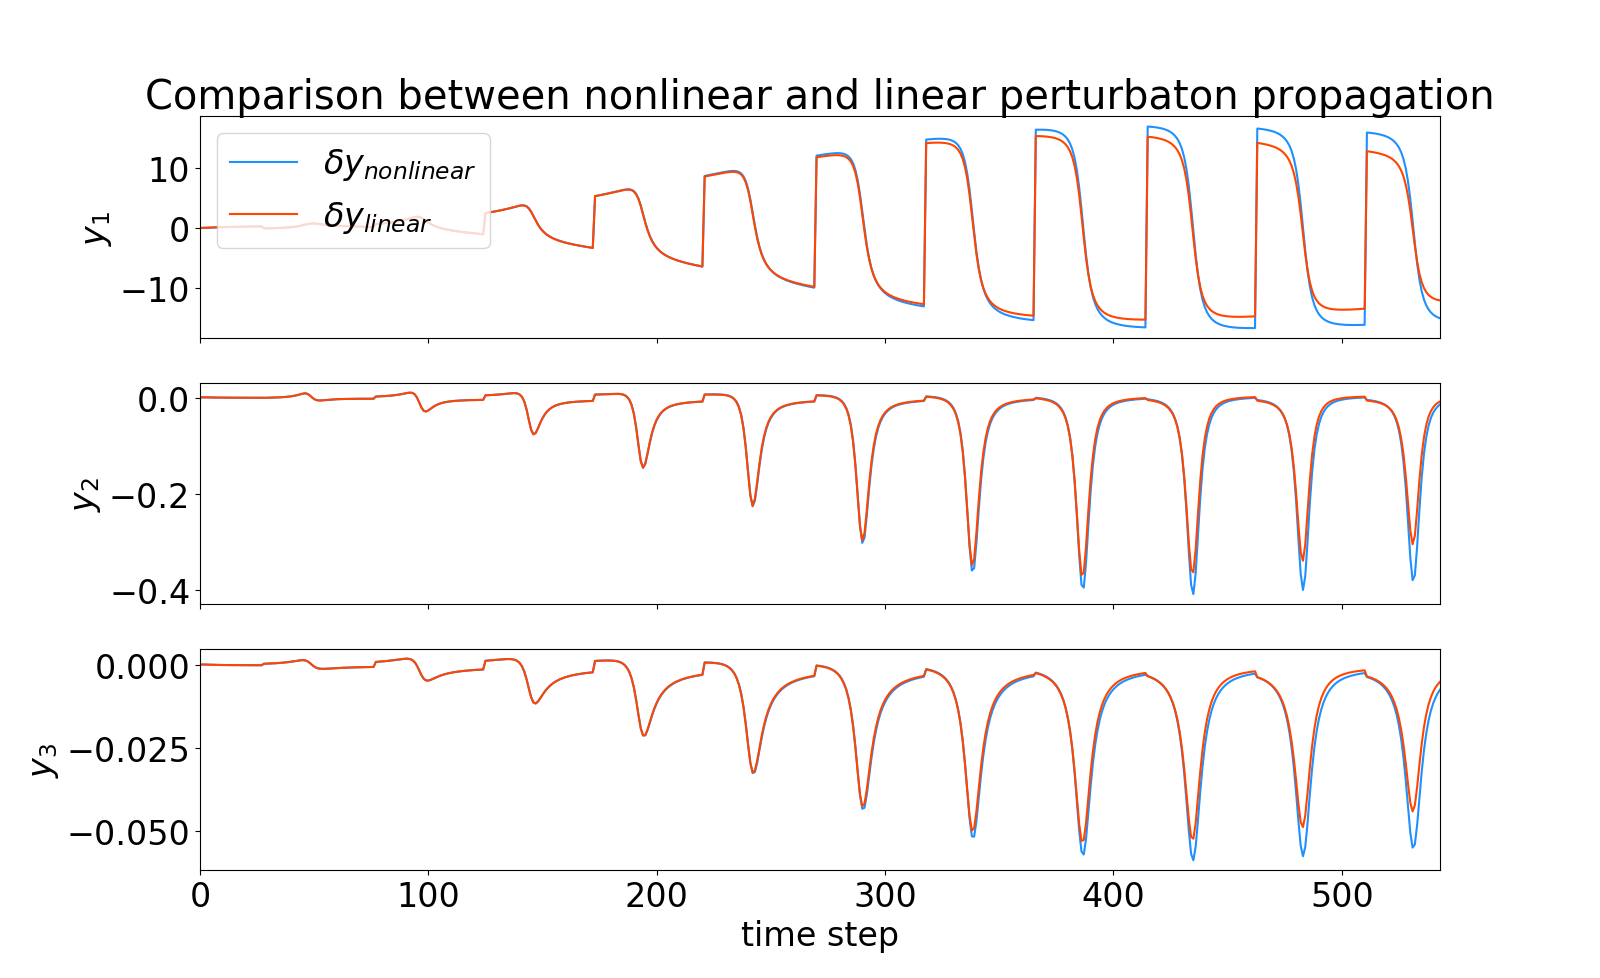
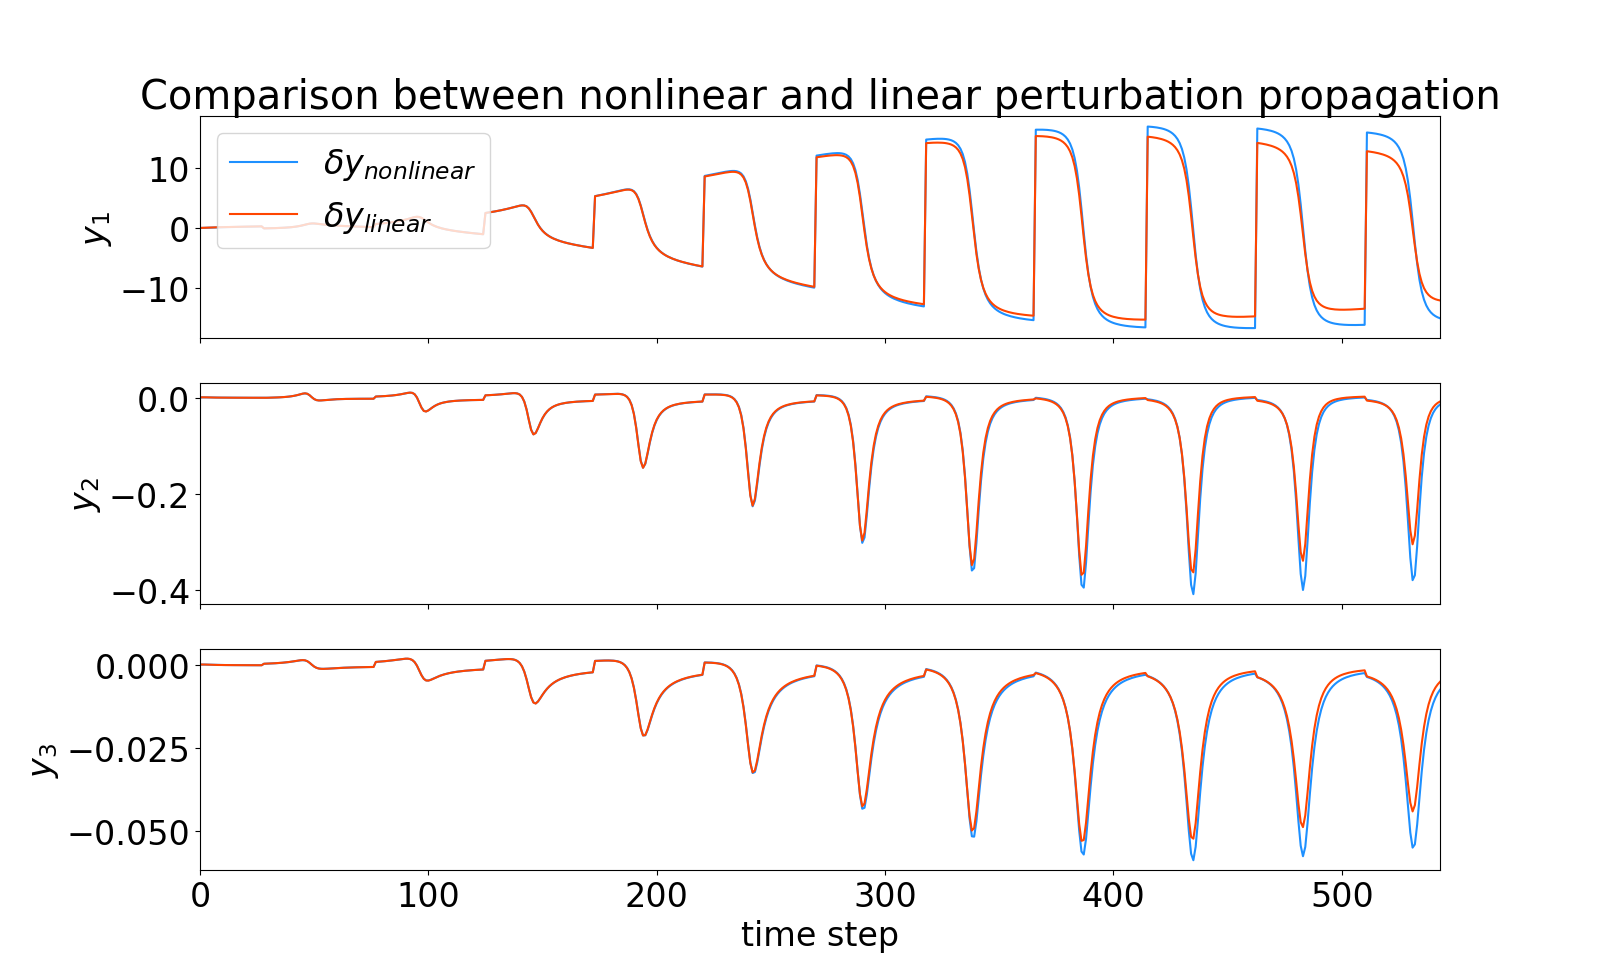
more typing! rephrased some sentences but otherwise pretty much done

Changed region(s): [[0.0938, 0.0613, 0.9375, 0.1227]]

diff --git a/Report/main.tex b/Report/main.tex
@@ -114,7 +114,7 @@ Where:
 
 
 \subsection{Simulated Nonlinear vs. Linearized System}
-Figure \ref{fig:nlvl_s} shows the difference between propagating a small initial perturbation using full nonlinear dynamics and the above DT state transition matrices. 
+Figure \ref{fig:nlvl_s} shows the difference between propagating a small initial perturbation using full nonlinear dynamics and DT state transition matrices. 
 These were gathered by propagating two orbits, a nominal and initially perturbed orbit, with full nonlinear dynamics using an RK45 integration method.
 The difference between these orbits is shown by the blue line in Figure \ref{fig:nlvl_s}. 
 The initial perturbation (difference between the initial states of the nonlinear trajectories described above) was then propagated using the linearized DT jacobians evaluated on the nominal trajectory. 
@@ -143,12 +143,12 @@ As the perturbed orbit drifts further and further from the nominal orbit, the li
 
 \section{Nonlinear Filtering}
 This section delves into the capabilities of the LKF and EKF in with respect to estimating nonlinear trajectories. 
-We explore this through simulated orbits wherein truth states are generated with a deviation from the nominal initial conditions, and process noise (AWGN) included in the dynamics of the system. 
-The AWGN is added to the accelerations via a Zero Order Hold over each discrete time step in the integrator as the trajectory is calculated. 
-The noisey, perturbed truth states are mapped to measurement space through the nonlinear measurement equation and measurement noise is added on to it.
+We explore this through simulated orbits wherein truth states are generated with a deviation from the nominal initial conditions, and process noise (AWGN) added the dynamics of the system. 
+The process noise is added to the spacecraft accelerations via a Zero Order Hold over each discrete time step in the integrator. 
+The noisey, perturbed truth states are mapped to measurement space through the nonlinear measurement equation and measurement combined with white Gaussian.
 Process and measurement noise are both sampled from $Q_{true}$ and $R_{true}$ given in the assignment data when generating truth trajectories.
 
-Each truth trajectory is initiall perturbed with the same $\delta x_0$ sampled from a chosen $P_0$. These are $P_0$ = diag([$10m^2, 1m^2/s^2, 10m^2, 1m^2/s^2$]) and $\delta x_0$ = [0.078 km, 0.022 km/s, -0.058 km, 0.031 km/s].
+Each truth trajectory is initially perturbed with the same $\delta x_0$ sampled from a chosen $P_0$. These are $P_0$ = diag([$10m^2, 1m^2/s^2, 10m^2, 1m^2/s^2$]) and $\delta x_0$ = [0.078 km, 0.022 km/s, -0.058 km, 0.031 km/s].
 All filters begin with this initial estimate either as a deviation of full state, and all begin with this initial covariance. 
 
 
@@ -210,7 +210,7 @@ The equations for a given NEES and NIS equations at a time $k$ is given by Equat
 \begin{equation}
 	\epsilon_{y,k} = e^T_{y,k} (S_k)^{-1} e_{y,k},
 	\quad \text{where} \quad
-	e_{y,k} = y_k - \hat{y}^+_k
+	e_{y,k} = y_k - \hat{y}^-_k
 	\label{eq:NIS}
 \end{equation}
 At each time step, the NEES and NIS values are expected to fall into 4 (NEES) or 3 (NIS) degree of freedom $\mathcal{X}^2$ distributions. 
@@ -218,7 +218,7 @@ As such, we expect values to fall within some range of the expecation of these d
 For this study, we've chosen 95\% confidence bounds, which are denoted with the dotted black lines. 
 The filter was tuned by adjusting the filter's knowledge of process noise in the system until the simulations reliably generated NEES and NIS results within the confidence bounds at least 95\% of the time. 
 Note that in the NEES/NIS test below, only a time span of $k\ \epsilon\ [0, 150]$ is shown due to the LKF's poor performance further into the orbit. 
-Additionally, note that $N$ was chosen to be 10 for the purpose of minimizing computational time, while still conveying the information gathered from these tests. 
+Additionally, note that $N$ was chosen to be 10 for the purpose of minimizing computational time, while still conveying the information gathered from these tests. In deciding N, it was found that increasing N past 10 did no provide substantial insight to filter performance for the increase in computational time. 
 
 In this first iteration of the tuning process, the Kalman filter was initialized with an internal (guessed) process noise of $Q_{KF} = 10^{-6} \cdot I_{2 x 2}$. 
 The results of this test can be seen in Figure \ref{fig:neesnis_lkf_Qbig}. 
@@ -244,7 +244,7 @@ This low bias lead to the conclusion that the guessed $Q_{KF}$ is too too small,
 
 In this third and final iteration of the tuning process, the Kalman filter was initialized with an internal process noise of $Q_{KF} = 10^{-9} \cdot I_{2 x 2}$. 
 The results of this test can be seen in Figure \ref{fig:neesnis_lkf}.
-While neither is perfect (due to the inherent ineptness of the LKF to this orbit determination problem), the $Q_{KF}$ used here seems to be the best choice. 
+While neither is perfect (due to the inherent ineptitude of the LKF to this orbit determination problem), the $Q_{KF}$ used here seems to be the best choice. 
 
 \begin{figure}[H]
 	\centering
@@ -346,7 +346,7 @@ The results of these  are shown below for the LKF and EKF respectively using the
 \end{figure}
 
 The LKF estimate, begins with smooth, orbit-esque estimate and seems to track well for approximately 1/2 of an orbit. 
-However, as time goes on, the estimate becomes less recognizeable as an orbit trajectory - even though its covariance bounds shrink around the estimate 
+However, as time goes on, the estimate becomes less recognizeable as an orbit trajectory - even though its covariance bounds shrink around the estimate.
 From this observation, we can say that the LKF, as in other tests, is incapable of estimating the orbit after it has drifted a substantial distance from the nominal trajectory. 
 The state deviation and error covariance are propagated based on jacobians evaluated on the nominal trajectory, so it's crucial that actual measurements orginate near that nominal. 
 
@@ -397,6 +397,7 @@ The UKF has additional tuning parameters pertaining to the approximate pdf creat
 It was found that, for this particular problem, changing the distance from the mean at which sigma points are sampled changes very little about the final estimate. 
 This may indicate that, for the perturbations used, and the type of system used, the covariance remains mostly Guassian even with the nonlinear transformations between time steps and in to measurement space.   
 
+
 \begin{figure}[H]
 	\centering
 	\includegraphics[width=\textwidth]{Figures/ukf_estimate_th.png}
@@ -410,7 +411,6 @@ This may indicate that, for the perturbations used, and the type of system used,
 	\caption{NEES and NIS chi-square results over time for N = 10 simulated trajectories.}
 	\label{fig:neesnis_ukf}
 \end{figure}
-
 
 
 \newpage

diff --git a/validate_linearized.py b/validate_linearized.py
@@ -94,7 +94,7 @@ plt.rcParams['font.size'] = 24
 plt.rcParams['figure.figsize'] = 16, 12
 fig, ax = plt.subplots(n, 1, sharex=True)
 
-ax[0].set_title('Comparison between nonlinear and linear perturbaton propagation')
+ax[0].set_title('Comparison between nonlinear and linear perturbation propagation')
 
 for i in range(n):
     state_quant1 = [x[i] for x in dx_nl]
@@ -110,7 +110,7 @@ ax[-1].set_xlabel('time step')
 fig.savefig(fig_dir + 'nonlvl_state.png')
 
 fig, ax = plt.subplots(p, 1, sharex=True)
-ax[0].set_title('Comparison between nonlinear and linear perturbaton propagation')
+ax[0].set_title('Comparison between nonlinear and linear perturbation propagation')
 for i in range(p):
     quant1 = [y[i] for y in dy_nl]
     quant2 = [y[i] for y in dy]
